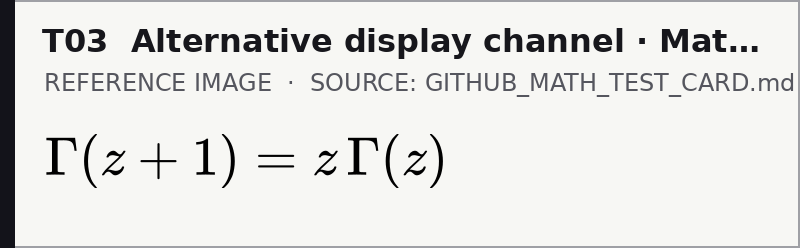
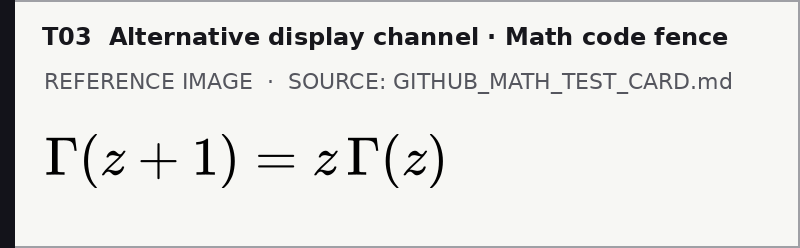
Refresh fallback images with fitted captions

Changed region(s): [[0.0312, 0.1129, 0.9688, 0.254], [0.0625, 0.2823, 1.0, 0.3952]]

diff --git a/docs/MOBILE_APP_FALLBACK.md b/docs/MOBILE_APP_FALLBACK.md
@@ -6,6 +6,8 @@
 
 **Purpose:** this is a static visual reference for environments that do not show live mathematics. Each PNG is rendered from the **exact source mathematics in T00–T21**, not manually retyped. Adjacent expressions separated by presentation spacing have been reflowed into separate lines for legibility.
 
+The image cards reproduce the mathematical expressions only: T19 does not include the surrounding currency sentence, and T21 does not reproduce the three-column table. Use the live card to test those Markdown contexts.
+
 **Boundary:** PNG fallback is **not a fix for GitHub's proprietary Android app**, and a PNG appearing on screen is **not a passing TeX-render test**. Native Android display of these new PNGs has NOT yet been tested.
 
 ## 22 reference images
